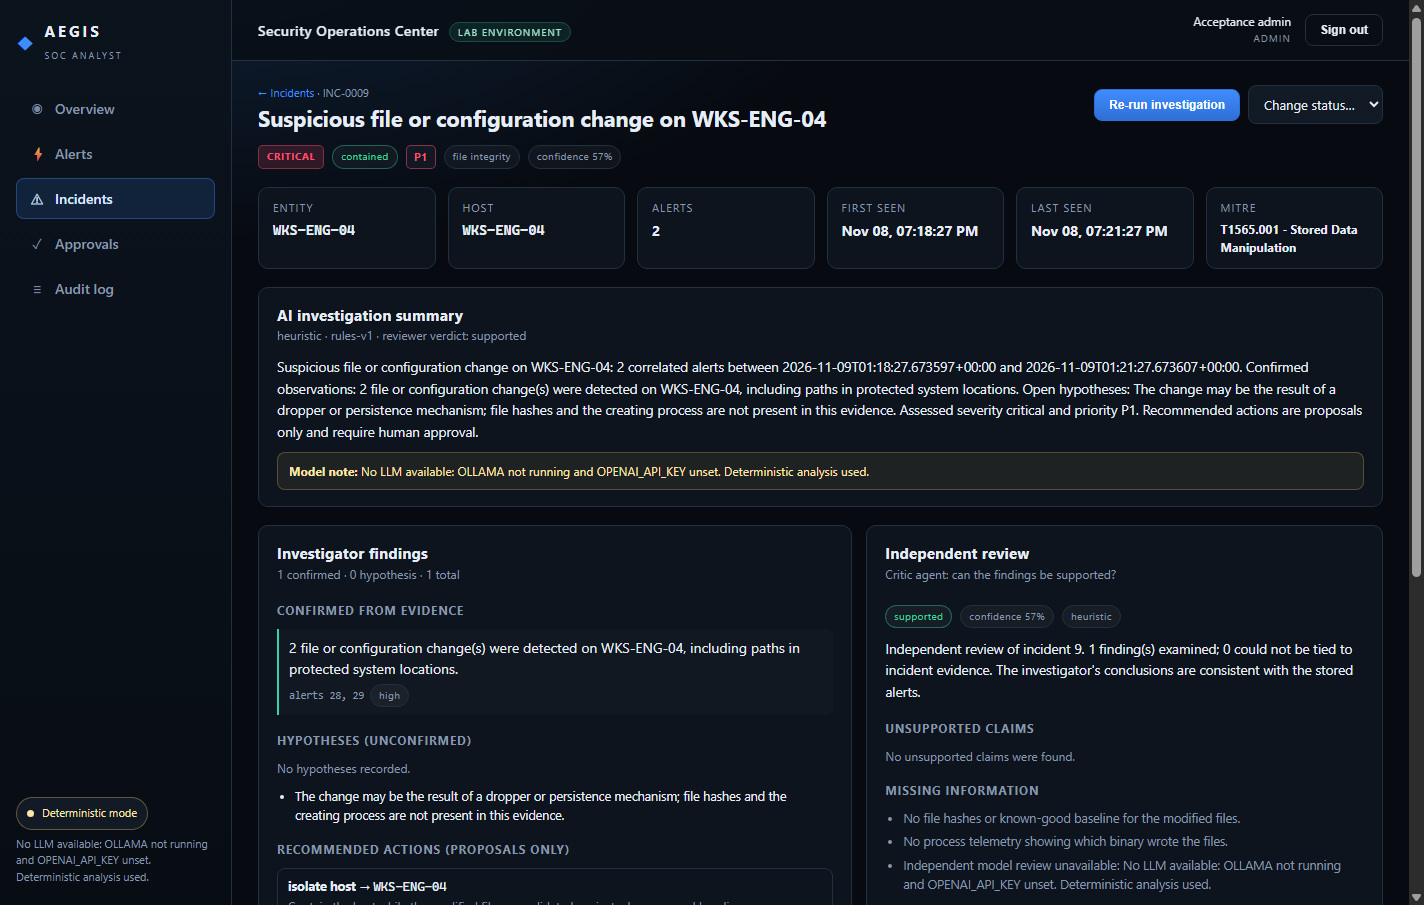
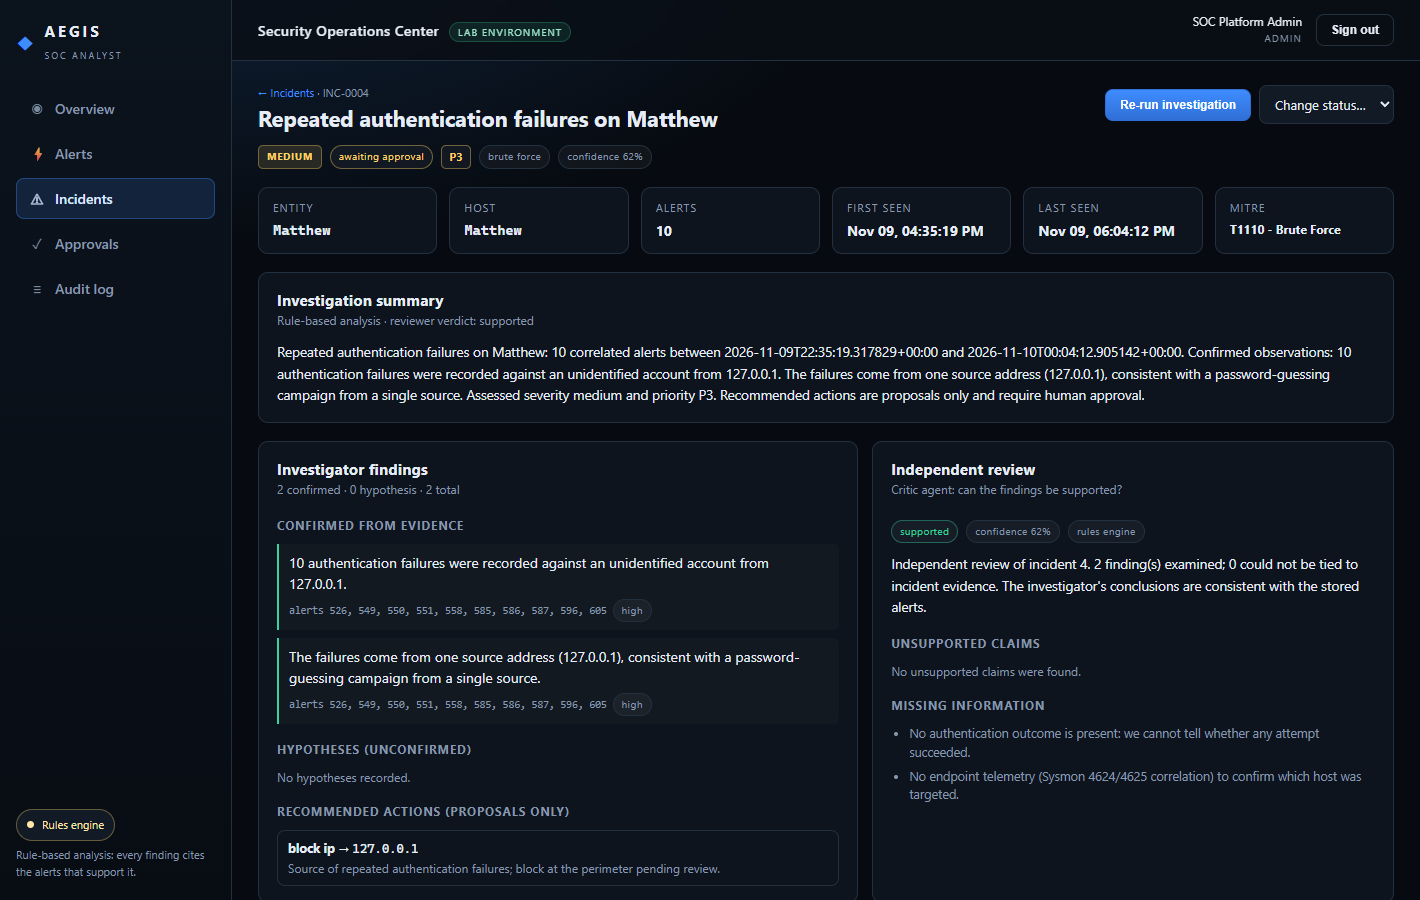
Refresh the README screenshots with real Windows Event Log data
The published images still showed the removed language-model notes and
simulated host names, so they described an app that no longer exists. Both are
now captured from this laptop's own Security and System event logs, and the
run exposed two small wording bugs: the login footer still advertised "AI
agents", and the investigator rendered Windows' '-' placeholder account as an
empty gap in its summary.

🤖 Generated with Codebuff

diff --git a/frontend/src/pages/Login.tsx b/frontend/src/pages/Login.tsx
@@ -74,7 +74,7 @@ export default function Login() {
         </form>
 
         <p className="tiny muted login-foot">
-          Read-only AI agents · human-approved containment · scrypt password hashing · JWT sessions
+          Read-only analysis agents · human-approved containment · scrypt password hashing · JWT sessions
         </p>
       </div>
       <div className="login-aside">

diff --git a/backend/app/agents/investigator.py b/backend/app/agents/investigator.py
@@ -25,6 +25,13 @@ SYSTEM_PATHS = re.compile(
     r"(?i)(c:\\windows|c:\\programdata|/etc/|/usr/bin|/usr/sbin|startup folder|\\start menu\\|run key)"
 )
 
+PLACEHOLDER_VALUES = {"-", "n/a", "na", "unknown", "null", "none"}
+
+
+def _named(value: str | None) -> bool:
+    """Windows writes '-' into empty fields; treat those as no value at all."""
+    return bool(value) and value.strip().lower() not in PLACEHOLDER_VALUES
+
 
 def heuristic_findings(incident: Incident, evidence: Evidence) -> tuple[list[dict], list[str], list[dict]]:
     """Return (findings, hypotheses, recommendations) derived deterministically."""
@@ -51,10 +58,11 @@ def heuristic_findings(incident: Incident, evidence: Evidence) -> tuple[list[dic
     if category == "brute_force":
         failures = [a for a in evidence.alerts if "fail" in (a["title"] + " " + a.get("description", "")).lower()]
         sources = sorted({a["src_ip"] for a in failures if a["src_ip"]})
-        targets = sorted({a["username"] for a in failures if a["username"]})
+        targets = sorted({a["username"] for a in failures if _named(a["username"])})
+        accused = ", ".join(targets) if targets else "an unidentified account"
         add(
             f"{len(failures)} authentication failures were recorded against "
-            f"{', '.join(targets) if targets else entity} from {', '.join(sources) if sources else 'an internal source'}.",
+            f"{accused} from {', '.join(sources) if sources else 'an internal source'}.",
             [a["alert_id"] for a in failures],
         )
         if len(sources) == 1 and len(failures) >= 5:

diff --git a/README.md b/README.md
@@ -94,17 +94,20 @@ behaviour families I wrote rules for.
 
 ### What it looks like
 
-All the data in these screenshots is fake, generated by the simulator described further down. They
-were captured before the analysis layer was simplified, so the wording differs slightly from today's UI.
+Everything in these screenshots is real: Windows Event Log records from my own laptop, collected with
+the script described further down and pushed through the same webhook any other alert source uses.
+The host name in the queue is this machine, and the failures in the incident are genuine Windows 4625
+failed logons, not simulated traffic.
 
 ![Dashboard overview](docs/acceptance-screenshots/02-overview.png)
 
-*The overview page: alert counts by severity, a timeline, and the incident queue.*
+*The overview page: real alert volume for the last 24 hours, the severity mix across everything
+retained, the most active host, and the correlated incident queue.*
 
 ![Incident detail](docs/acceptance-screenshots/04-incident-detail.png)
 
-*An incident: the agent's summary, its evidence-linked findings, the critic's verdict, and the
-proposed actions waiting for a human.*
+*A brute-force incident built from those events: the investigator's summary with its evidence-linked
+findings, the critic's independent verdict, and the containment actions waiting for an approver.*
 
 ---
 
@@ -396,8 +399,8 @@ I'd rather list the gaps than have someone find them after trusting the screensh
 - **No HA, migrations or retention policy.** The audit log is append-only through the API but not
   tamper-evident at the database level. `/api/docs` is public. Tokens live in localStorage and there's
   no revocation.
-- **Never run against a live Wazuh manager.** Everything you see was verified with the simulator and
-  the rules engine.
+- **Never run against a live Wazuh manager.** Everything you see was verified with the simulator,
+  this laptop's own Windows Event Log, and the rules engine.
 
 The full threat model and production checklist is in [docs/security-model.md](docs/security-model.md).
 
